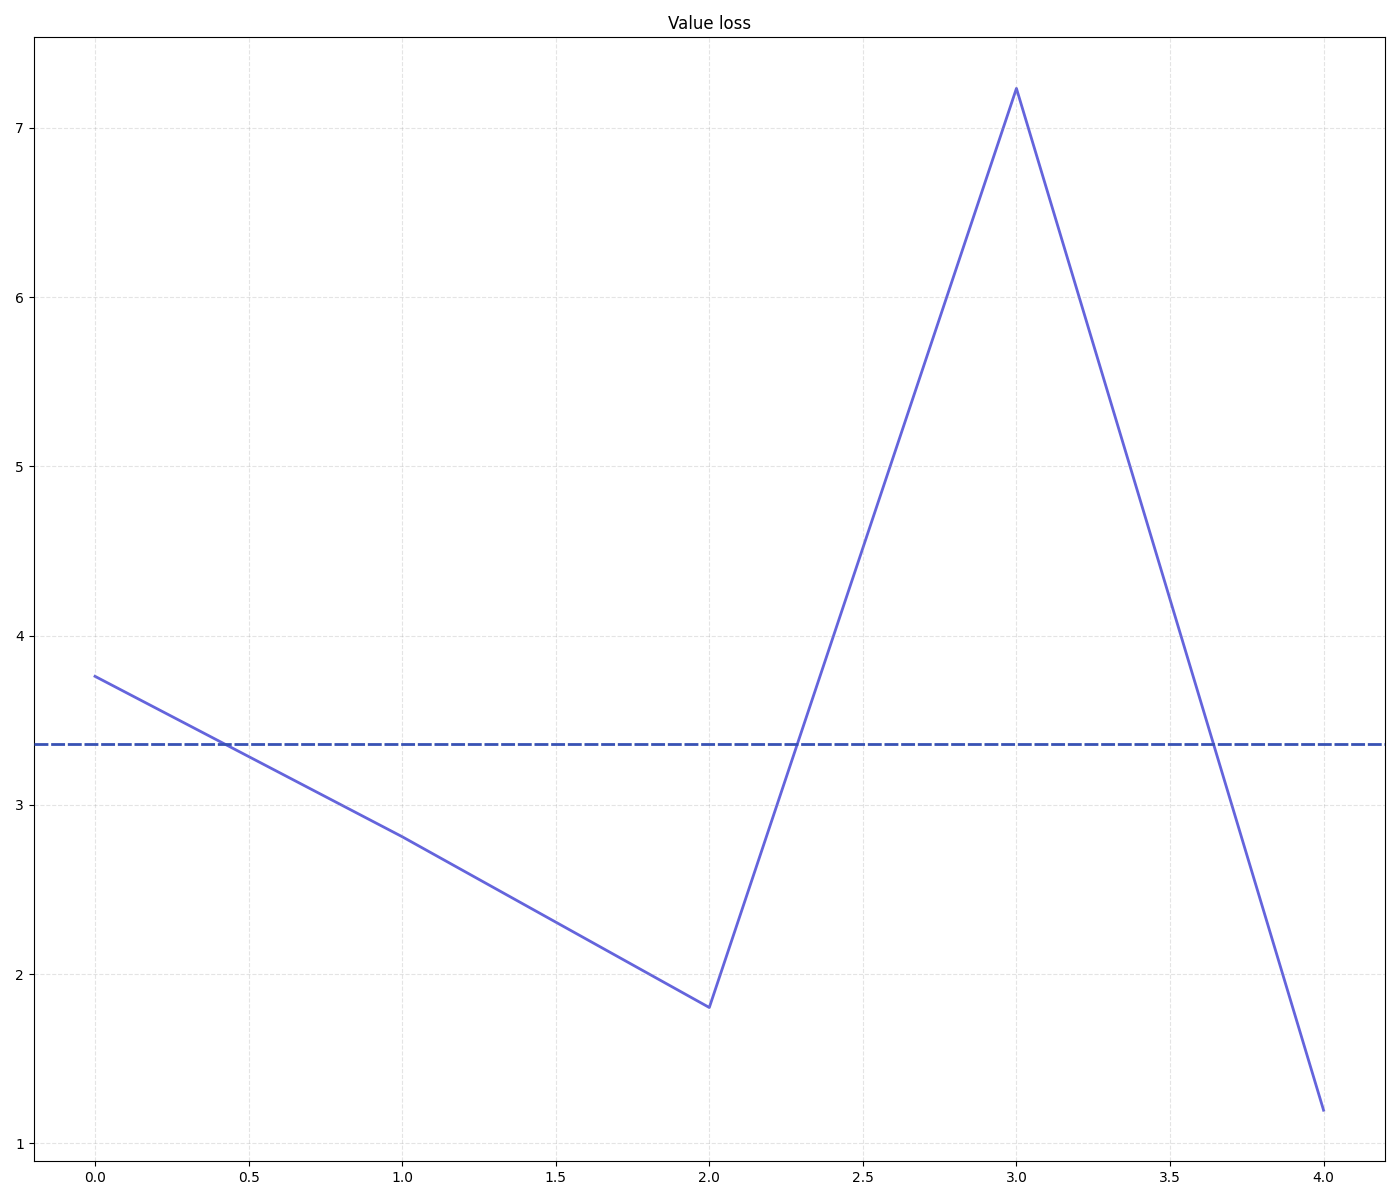
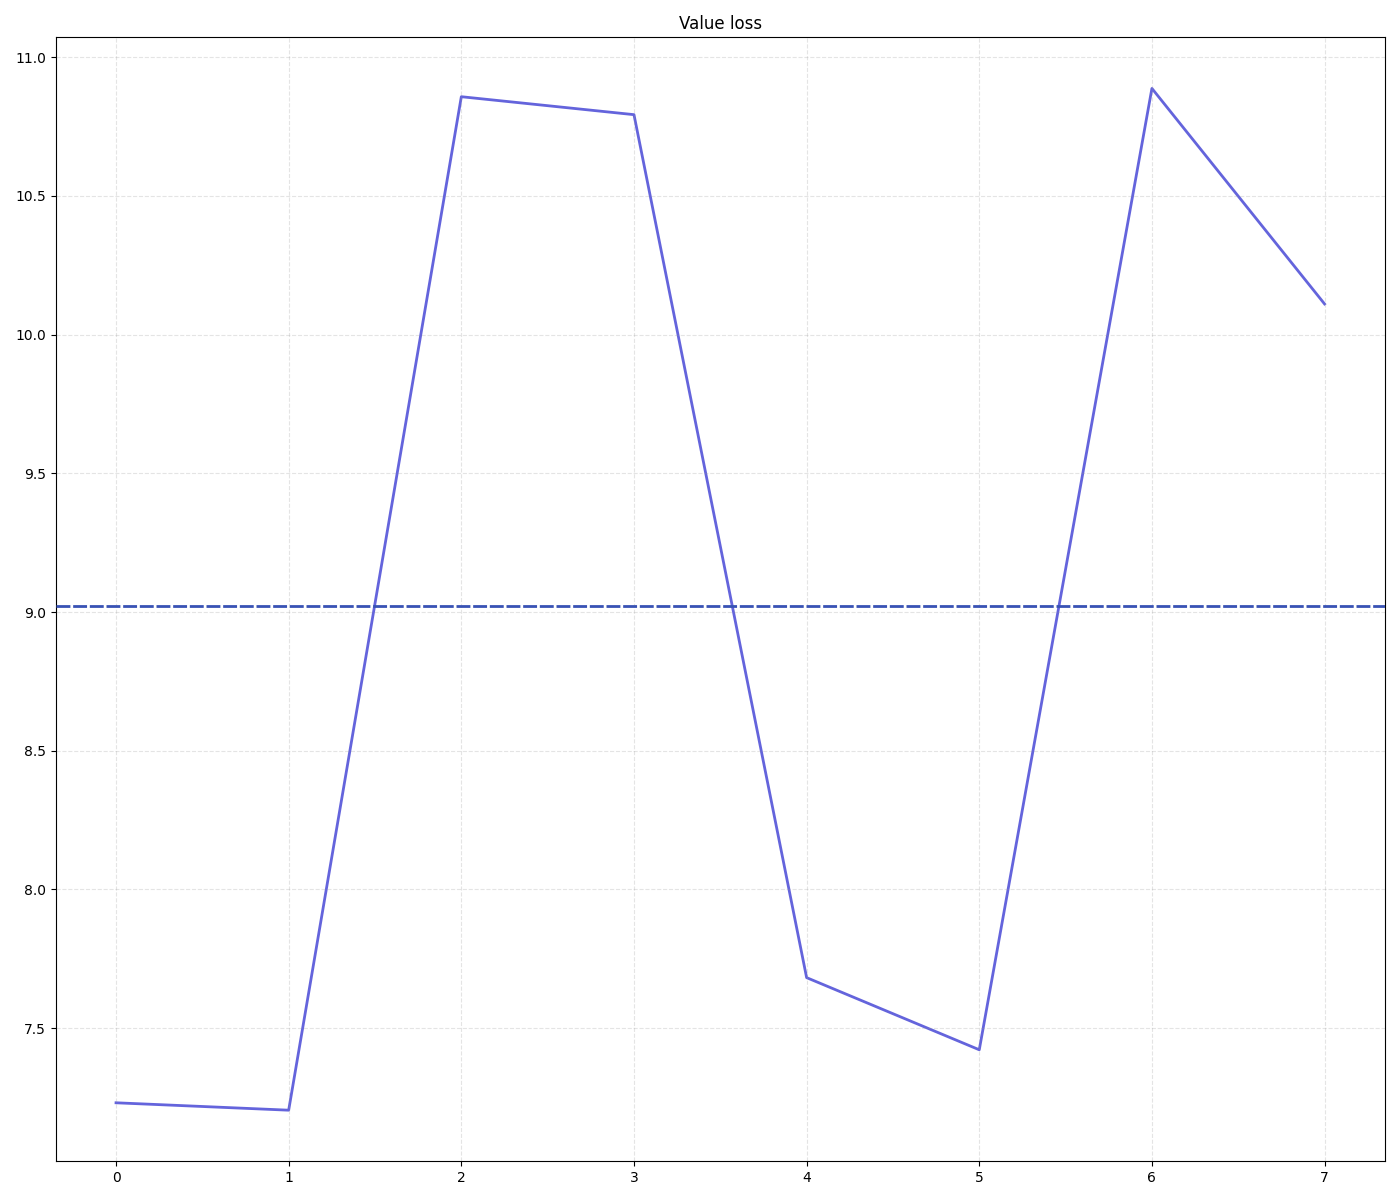
saveFile finish

diff --git a/graph.py b/graph.py
@@ -1,5 +1,6 @@
 import matplotlib.pyplot as plt
 import numpy as np
+import pickle
 
 red_dark    = [97 /255, 0  /255, 6  /255]
 red_light   = [220/255, 100/255, 100/255]
@@ -120,8 +121,11 @@ def policy_loss(PolicyLoss,num_epochs):
     PolicyLossBatchMean = []
     PolicyLossCopy = PolicyLoss.copy()
 
-    for i in range(batch):
+    batch = int(batch)
+    num_epochs =  int(num_epochs)
 
+    for i in range(batch):
+        
         PolicyLossBatchMean.append(np.mean(PolicyLossCopy[:num_epochs]))
         del PolicyLossCopy[0:num_epochs]
 
@@ -149,6 +153,9 @@ def value_loss(ValueLoss,num_epochs):
 
     ValueLossBatchMean = []
     ValueLossCopy = ValueLoss.copy()
+
+    batch = int(batch)
+    num_epochs =  int(num_epochs)
 
     for i in range(batch):
 
@@ -187,3 +194,38 @@ def episodeReward(episodeReward,num_epochs):
     plt.tight_layout()
     plt.savefig("Graph/episodeReward.png")
     plt.close()
+
+linesCount = 0
+
+with open("save.txt") as SaveFile:
+    
+    lines = SaveFile.readlines()
+
+counter = len(lines)
+#print(counter)
+
+# -- read all the data from the save file --
+
+graphRewards         = lines[-6].strip()
+graphRewards = [float(i) for i in graphRewards[1:-1].split(", ")] # Le .split(", ") supprime ce qui est inutile
+
+episodeLength        = lines[-5].strip()
+episodeLength = [float(i) for i in episodeLength[1:-1].split(", ")] 
+
+numpyGraphPolicyLoss = lines[-4].strip()
+numpyGraphPolicyLoss = [float(i) for i in numpyGraphPolicyLoss[1:-1].split(", ")] 
+
+numpyGraphValueLoss  = lines[-3].strip()
+numpyGraphValueLoss = [float(i) for i in numpyGraphValueLoss[1:-1].split(", ")] 
+
+graphEpisodeReward  = lines[-2].strip()
+graphEpisodeReward = [float(i) for i in graphEpisodeReward[1:-1].split(", ")] 
+
+num_epochs           = float(lines[-1].strip())
+
+cumulative_reward(graphRewards)
+Reward(graphRewards)
+episode_length(episodeLength)
+policy_loss(numpyGraphPolicyLoss, num_epochs)
+value_loss(numpyGraphValueLoss, num_epochs)
+episodeReward(graphEpisodeReward, num_epochs)

diff --git a/5_speederGoal.py b/5_speederGoal.py
@@ -20,7 +20,6 @@ import torch.optim as optim
 import torch.nn.functional as F
 
 import visual
-import graph
 
 def radian(x):
     return 180 * x / np.pi
@@ -700,29 +699,28 @@ def training(frames_per_batch, sub_batch_size, optimizerAdam, model1, max_traini
     numpyGraphValueLoss  = torch.stack(graphValueLoss).cpu().detach().tolist()
     numpyGraphValueLoss  = [round(num, 3) for num in numpyGraphValueLoss]
 
-    graph.cumulative_reward(graphRewards)
-    graph.Reward(graphRewards)
 
-    graph.episode_length(episodeLength)
-
-    graph.policy_loss(numpyGraphPolicyLoss, num_epochs)
-
-    graph.value_loss(numpyGraphValueLoss, num_epochs)
-
-    graph.episodeReward(graphEpisodeReward, num_epochs)
 
     with open("save.txt", "a") as saveFile:
 
         saveFile.write("----\n")
-        
+        """
         saveFile.write(f"graphRewards = ({graphRewards}).\n")
         saveFile.write(f"episodeLength = ({episodeLength}).\n")
         saveFile.write(f"numpyGraphPolicyLoss = ({numpyGraphPolicyLoss}).\n")
         saveFile.write(f"numpyGraphValueLoss = ({numpyGraphValueLoss}).\n")
-        saveFile.write(f"num_epochs = ({num_epochs}).\n")
+        saveFile.write(f"num_epochs = ({num_epochs}).\n")"""
+
+        saveFile.write(f"{graphRewards}\n")
+        saveFile.write(f"{episodeLength}\n")
+        saveFile.write(f"{numpyGraphPolicyLoss}\n")
+        saveFile.write(f"{numpyGraphValueLoss}\n")
+        saveFile.write(f"{graphEpisodeReward}\n")
+        saveFile.write(f"{num_epochs}\n")
 
     #saveFile.close()
     
+    import graph
 
     # reset all variable for the next training
 
